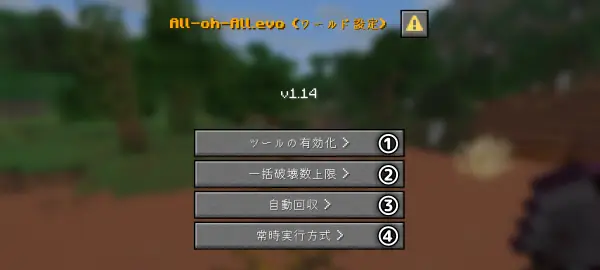
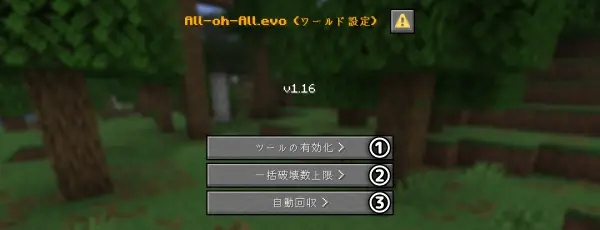
UPDATED README

diff --git a/README.md b/README.md
@@ -40,8 +40,6 @@
 デフォルトで問題なく動作するので、基本的には変更しない事をおすすめします。  
 **③自動回収のオンオフを設定できます。**  
 自動回収をオンにすると、掘ったブロックと経験値をすぐに回収することができます。  
-**④常時実行方式の切り替えを設定できます。**  
-常時実行方式を切り替える事で、主にロケーターバーが表示されない問題を修正する事が出来ます。  
 ### ユーザー用の設定
 設定を開くと▼のような画面になります。  
 ![ユーザー用の設定](/Setting4.webp)  
